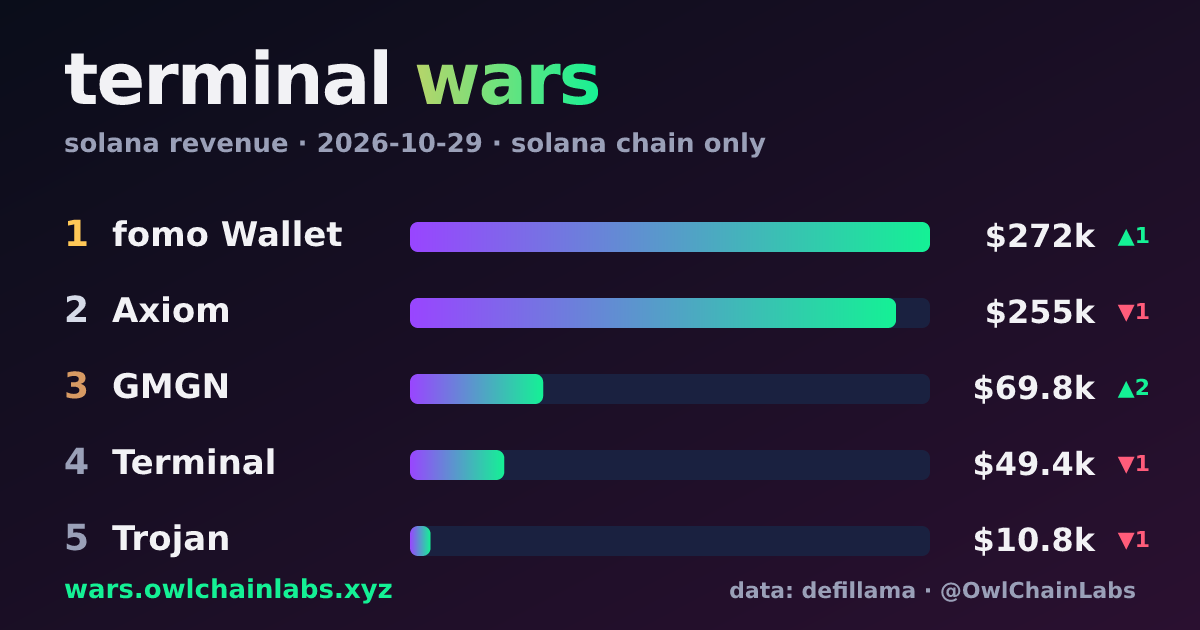
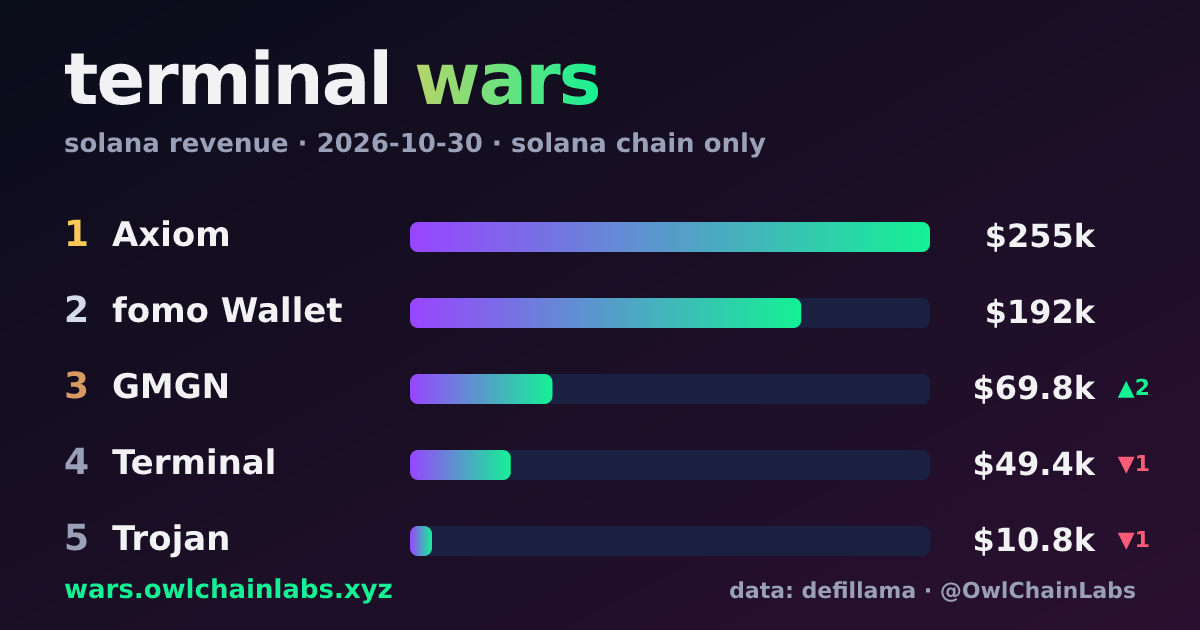
data: 2026-10-31

diff --git a/public/index.html b/public/index.html
@@ -9,8 +9,8 @@
   <meta property="og:title" content="terminal wars">
   <meta property="og:description" content="which solana trading terminal makes the most from you? daily leaderboard.">
   <meta property="og:url" content="https://wars.owlchainlabs.xyz">
-  <meta property="og:image" content="https://wars.owlchainlabs.xyz/og.png?v=2026-10-29">
-  <meta name="twitter:image" content="https://wars.owlchainlabs.xyz/og.png?v=2026-10-29">
+  <meta property="og:image" content="https://wars.owlchainlabs.xyz/og.png?v=2026-10-30">
+  <meta name="twitter:image" content="https://wars.owlchainlabs.xyz/og.png?v=2026-10-30">
   <meta name="twitter:card" content="summary_large_image">
   <meta name="twitter:site" content="@OwlChainLabs">
   <style>
